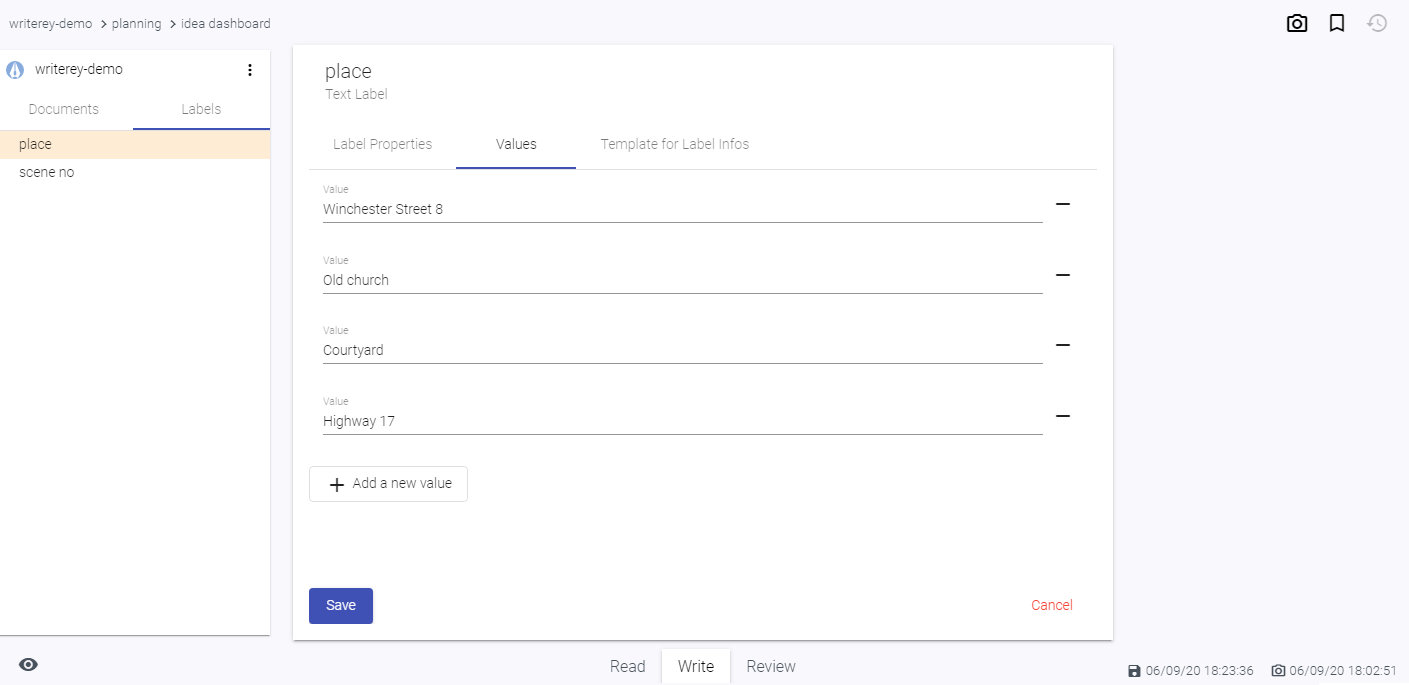
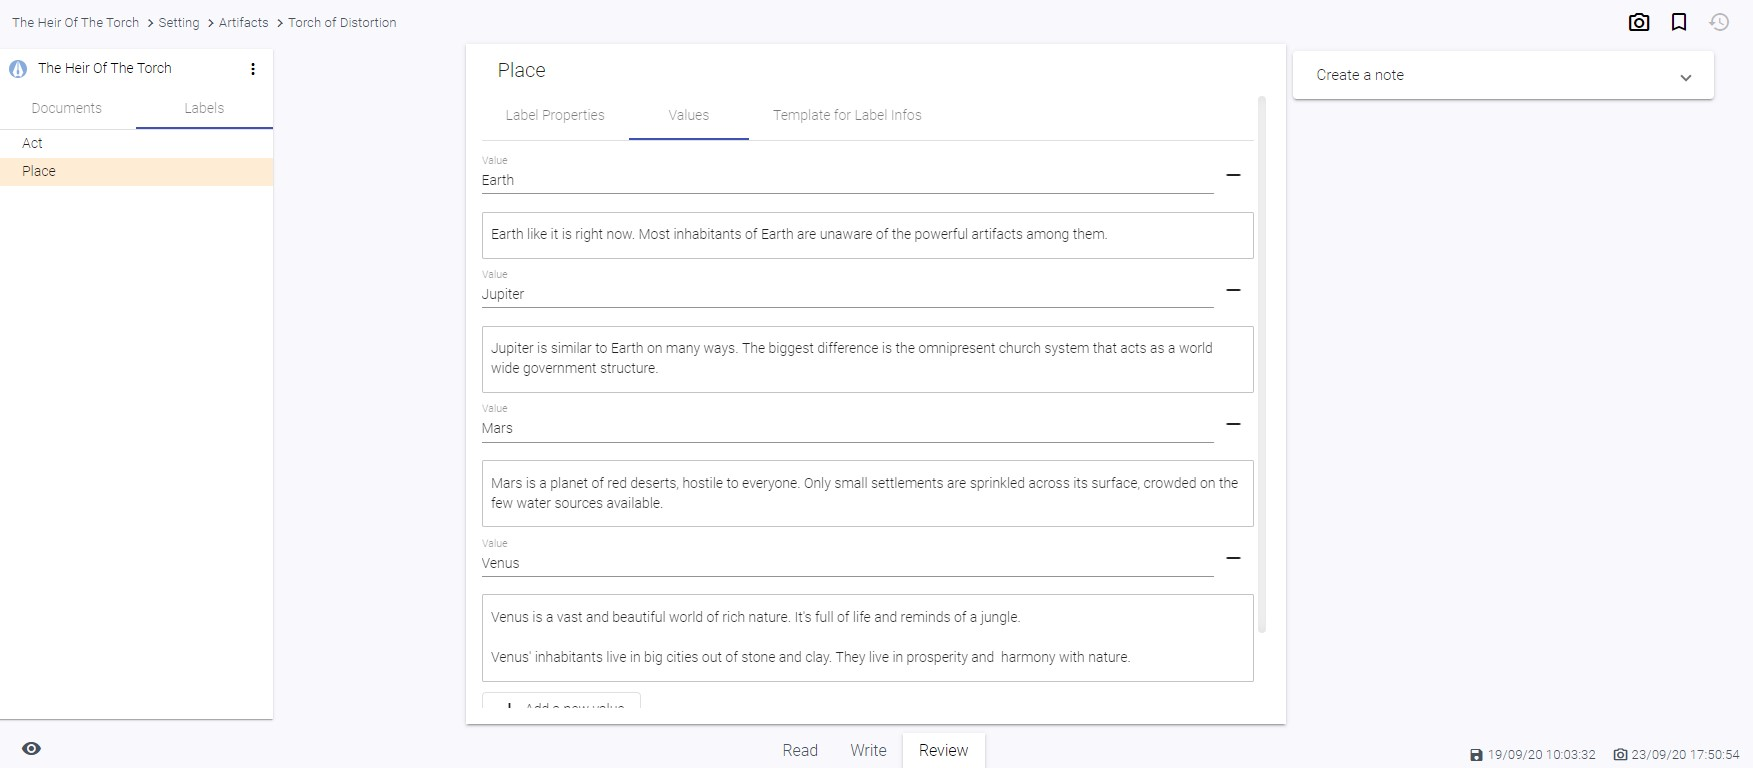
docs(#163): update the documentation regarding labels

diff --git a/src/app/labels/components/upsertLabelValue/upsertLabelValue.component.html b/src/app/labels/components/upsertLabelValue/upsertLabelValue.component.html
@@ -16,7 +16,7 @@
       [editor]="Editor"
       [config]="editorConfig"
       (ready)="onReady($event)"
-      (focus)="focus($event)"
+      (focus)="focus()"
       (blur)="blur()"
     ></ckeditor>
   </div>

diff --git a/src/app/labels/components/labelDetails/labelDetails.component.scss b/src/app/labels/components/labelDetails/labelDetails.component.scss
@@ -58,5 +58,6 @@
 
   .label-values {
     overflow-x: hidden;
+    margin-top: 1em;
   }
 }

diff --git a/docs/docs/en/guide.md b/docs/docs/en/guide.md
@@ -46,15 +46,11 @@ Lets discuss Labels first. Labels are here to help you _categorize_ parts of you
 
 Does this paragraph belong to chapter 1,2 or 14? Is this paragraph a first draft, the second one or already final? Which scene it belongs to? Which story line? Who's the Point of View character?
 
-You can create labels by clicking the menu on the sidebar. There are two types: numeric and textual ones.
+You can create labels by clicking the menu on the sidebar.
 
-### Numeric labels
+### Label values
 
-Numeric labels consists of a start, end and an interval. Their value are based on these three properties. This is handy when you want to have a label for your scenes and chapters, for example.
-
-### Textual labels
-
-On textual labels you can freely choose your values, i.e. the name of your main characters or some states a paragraph of your work cycles through.
+The label itself is only like a folder for files. For really use them, you need to add values to them. A value consists of two properties: A name and a info (or description). The name is the real value and what you will choose when assigning labels (see below). The info on the other hand will show up as a special kind of note, so this is the right place to add all the important bits that concern this label value.
 
 ![](../img/writerey_guide_label-details.jpg)
 
@@ -66,9 +62,11 @@ After you have created a label and its value, you can assign them.
 1. Switch to review mode
 1. Click on a paragraph
 
-On the left side, you'll now have your created labels displayed. Choose the values you want to assign to this paragraph. When you now switch back to Write mode and your cursor is inside this paragraph, your labels will show up.
+On the left side, you'll now have your created labels displayed. Choose the values you want to assign to this paragraph. When you now switch back to Write mode and your cursor is inside this paragraph, your labels will show up and - if available - you'll see your label info on the right side.
 
-And there is more to them.
+![](../img/writerey_assigning_labels.jpg)
+
+There is more to labels.
 
 ## Notes
 
